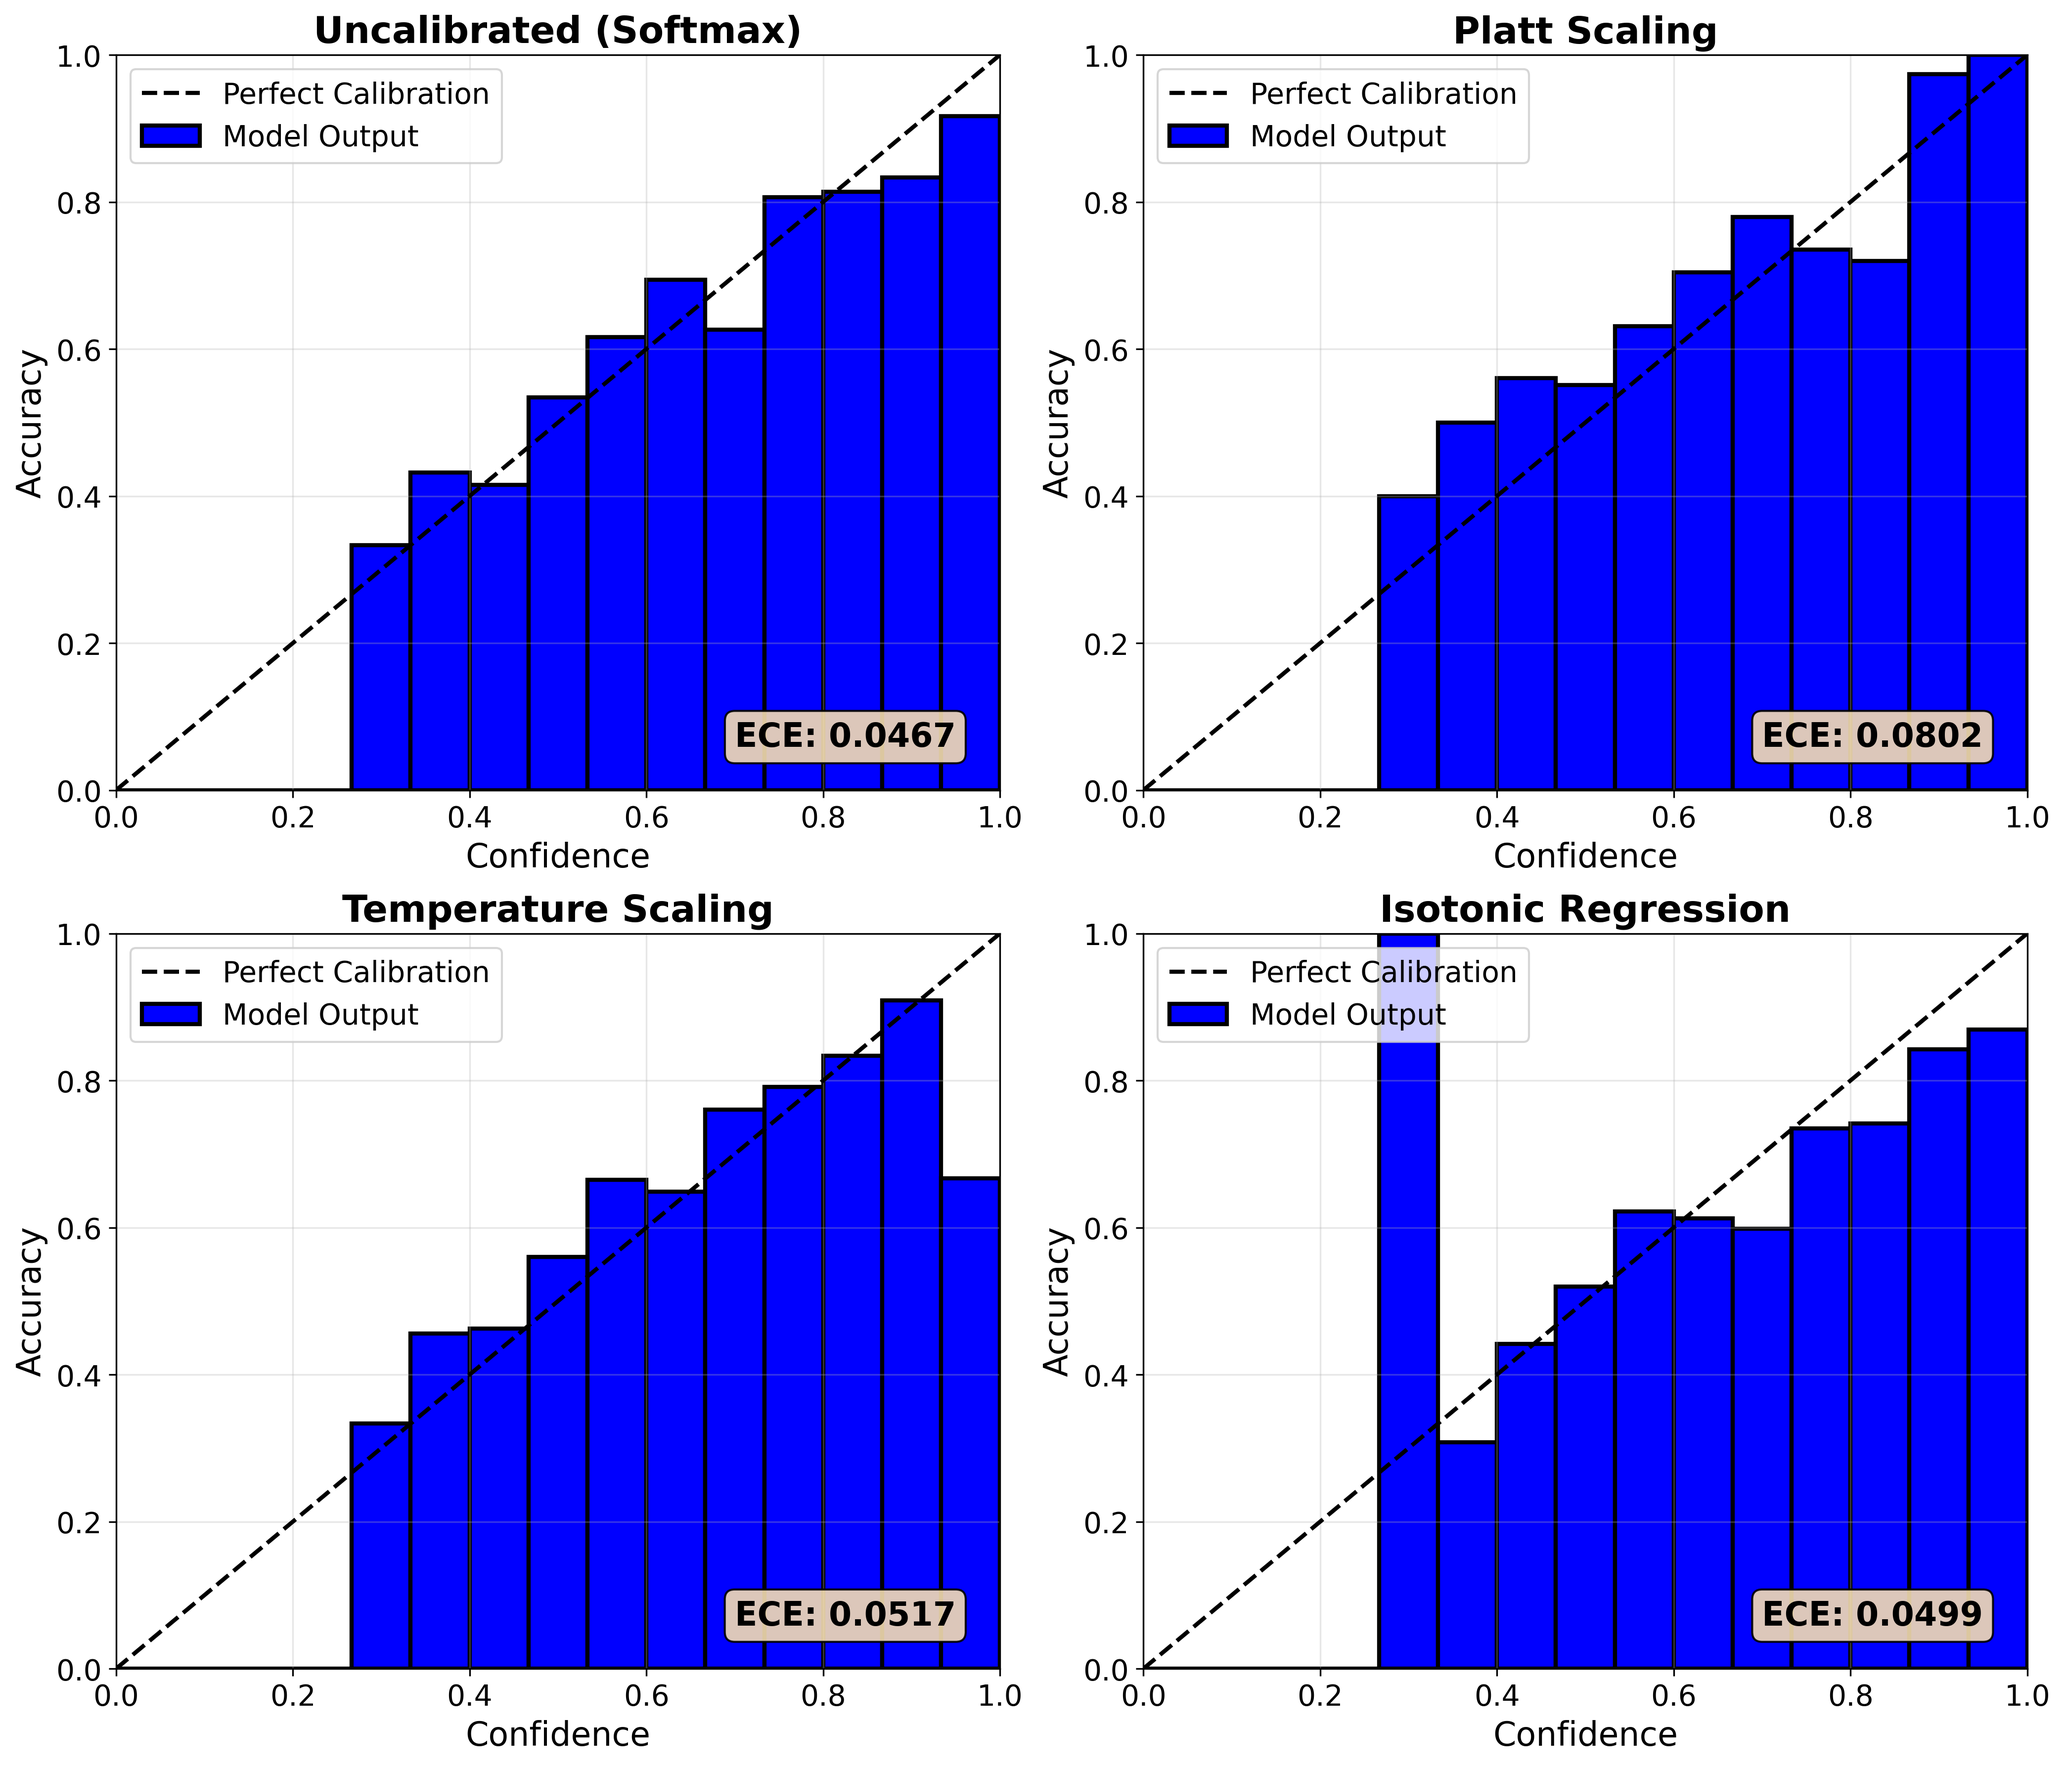
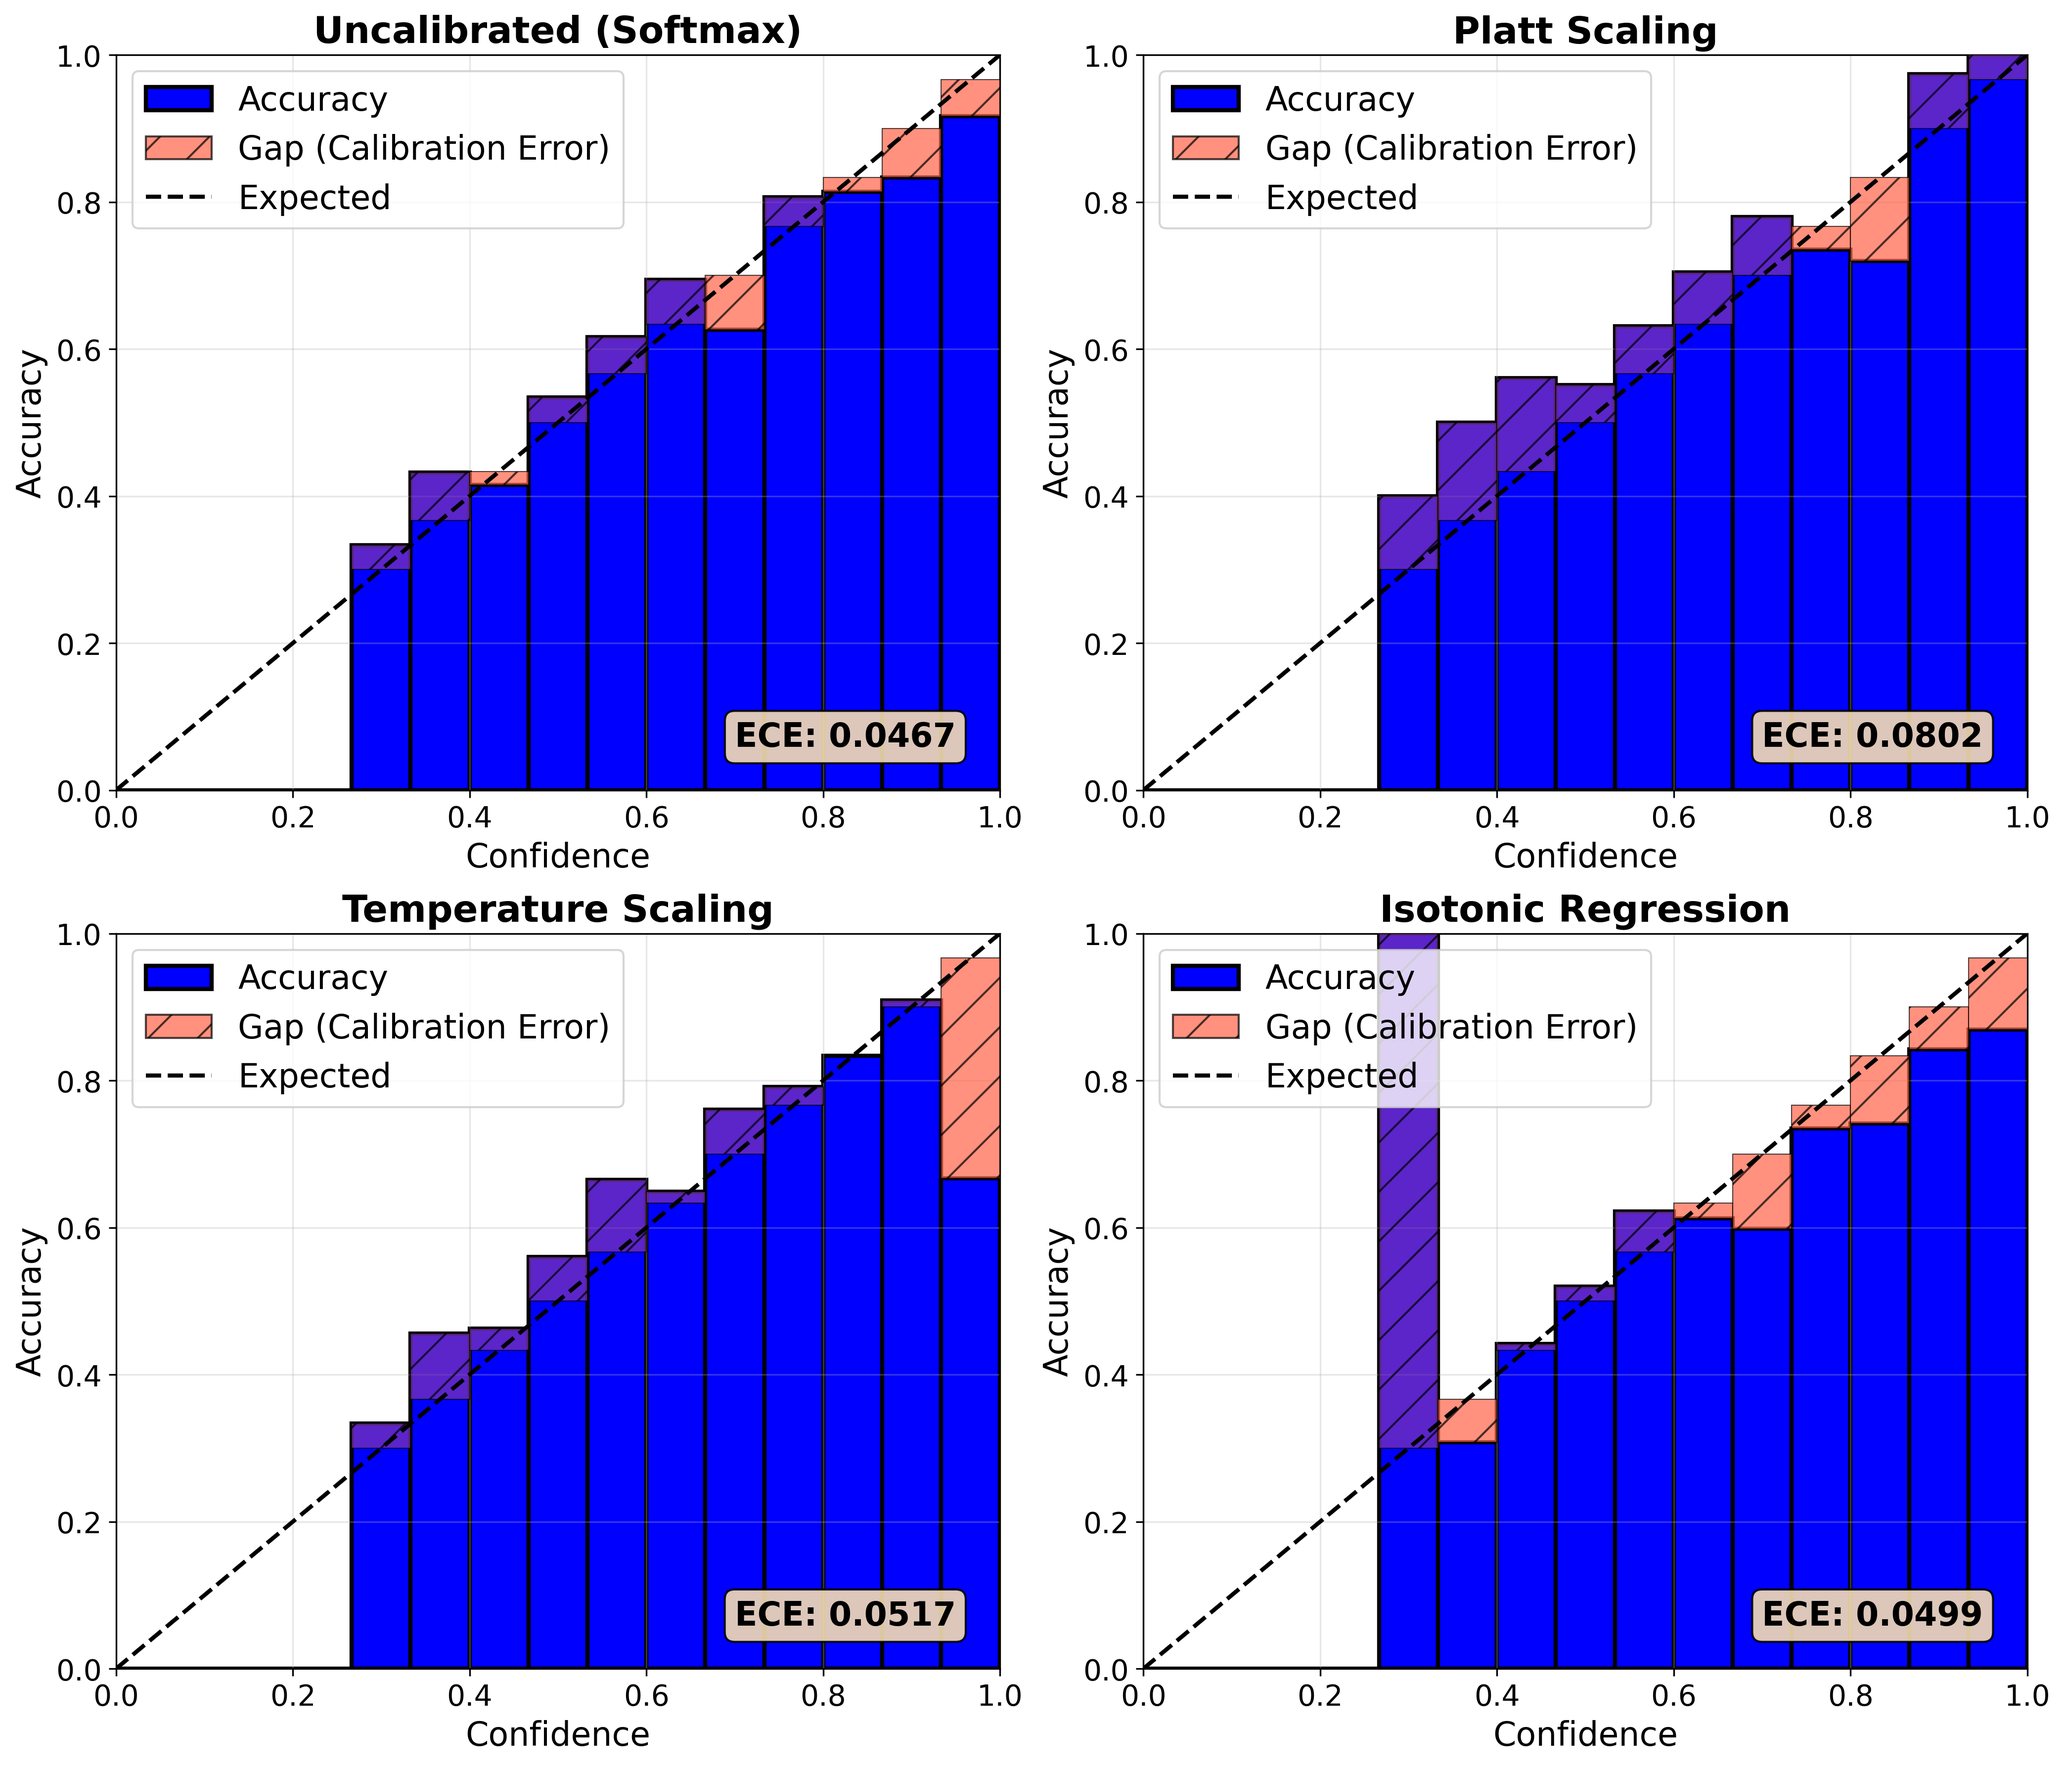
small cosmetic changes

diff --git a/code/10_evaluate_calibration.py b/code/10_evaluate_calibration.py
@@ -17,6 +17,7 @@ import joblib
 from sklearn.metrics import log_loss, accuracy_score
 from pathlib import Path
 import matplotlib.pyplot as plt
+from matplotlib.patches import Patch
 from scipy.special import softmax
 import json
 
@@ -106,25 +107,48 @@ def plot_comparison_reliability_diagrams(model, model_name, X_test, y_test,
                 bin_confidences.append(bin_center)
         
         # Plot
-        ax.plot([0, 1], [0, 1], 'k--', label='Perfect Calibration', linewidth=2)
-        
-        # Plot the gap between actual and perfect calibration (pink-red transparent bars)
-        #for i, (conf, acc) in enumerate(zip(bin_confidences, bin_accuracies)):
-         #   gap_height = abs(conf - acc)
-          #  gap_bottom = min(conf, acc)
-           # if gap_height > 0:
-            #    ax.bar(conf, gap_height, width=1.0/n_bins, 
-             #          bottom=gap_bottom, alpha=0.5, edgecolor='none', 
-              #         color='#fd3a3a')
-        
-        # Plot the actual model output bars on top
+        # Plot the actual model output bars first
         ax.bar(bin_confidences, bin_accuracies, width=1.0/n_bins, 
                alpha=1.0, edgecolor='black', linewidth=2, label='Model Output', color='#0000ff')
+        
+        # Plot the gap between actual and perfect calibration ON TOP
+        for i, (conf, acc) in enumerate(zip(bin_confidences, bin_accuracies)):
+            # Only plot if this bin has samples (acc > 0 or explicitly tracked)
+            # Check if bin had samples by looking at the calculation
+            bin_lower = bin_boundaries[i]
+            bin_upper = bin_boundaries[i + 1]
+            in_bin = (confidences > bin_lower) & (confidences <= bin_upper)
+            
+            if np.sum(in_bin) > 0:
+                gap_height = abs(conf - acc)
+                gap_bottom = min(conf, acc)
+                
+                # Choose color based on whether actual is below or above ideal
+                if acc < conf:  # Overconfident (actual below ideal)
+                    color = '#FF6347'  # Red-orange (tomato)
+                else:  # Underconfident (actual above ideal)
+                    color = '#8235b2'  # Purple
+                
+                if gap_height > 0:
+                    ax.bar(conf, gap_height, width=1.0/n_bins, 
+                           bottom=gap_bottom, alpha=0.7, edgecolor='black', 
+                           color=color, hatch='/', linewidth=0.5, zorder=3)
+        
+        # Plot perfect calibration line on top of everything
+        ax.plot([0, 1], [0, 1], 'k--', label='Expected', linewidth=2, zorder=4)
+        
+        # Create custom legend with Gap always shown as red-orange
+        from matplotlib.patches import Patch
+        legend_elements = [
+            Patch(facecolor='#0000ff', edgecolor='black', linewidth=2, label='Accuracy'),
+            Patch(facecolor='#FF6347', edgecolor='black', hatch='/', alpha=0.7, label='Gap (Calibration Error)'),
+            plt.Line2D([0], [0], color='k', linestyle='--', linewidth=2, label='Expected')
+        ]
         
         ax.set_xlabel('Confidence', fontsize=16)
         ax.set_ylabel('Accuracy', fontsize=16)
         ax.set_title(f'{method_name}', fontsize=18, fontweight='bold')
-        ax.legend(loc='upper left', fontsize=14)
+        ax.legend(handles=legend_elements, loc='upper left', fontsize=16)
         ax.grid(alpha=0.3)
         ax.set_xlim([0, 1])
         ax.set_ylim([0, 1])
